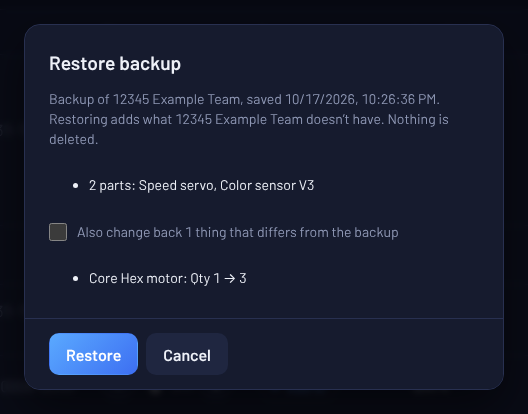
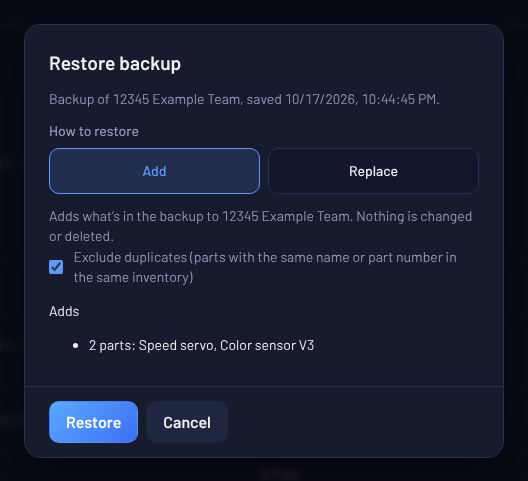
Restore a backup by adding to the team or replacing it
Restore backup now asks how: Add brings in what the team doesn't have, with
Exclude duplicates on to start (off adds every part again as copies). Replace
makes the team match the backup, moving what isn't in it to the trash, and
asks for the team number first. A team with nothing in it just gets the backup.

diff --git a/src/main.js b/src/main.js
@@ -1230,9 +1230,9 @@ function importParts(parts, newLocations, source) {
 }
 
 // ---------- team backup ----------
-// Export backup saves everything the team has in one .inv file (see backup.js). Restore backup adds what's in a backup
-// and not in the team, under the same ids, so printed QR labels and project uses still find their parts. What the team
-// has that differs from the backup is only changed back when asked. Nothing is deleted.
+// Export backup saves everything the team has in one .inv file (see backup.js). Restore backup adds what's in a backup to
+// the team, or replaces the team with it. Either way things come back under their ids, so printed QR labels and project
+// uses still find their parts, and what Replace removes goes to the trash.
 
 // Every doc of the backed-up collections, read fresh rather than taken from the screen, so a backup made while the
 // inventory is still loading isn't missing anything.
@@ -1257,21 +1257,26 @@ function chooseBackup() {
   input.click();
 }
 
-// How describeEdit names what restoring changes besides parts.
+// How describeEdit names what restoring changes besides parts (see RESTORE_PART_FIELDS).
 const NAME_FIELDS = [['name', 'Name']];
 const USE_FIELDS = [['quantity', 'Using'], ['packed', 'Packed']];
 const ORDER_FIELDS = [['name', 'Item'], ['partNumber', 'Part #'], ['quantity', 'Qty'], ['supplier', 'Supplier'], ['link', 'Link'], ['notes', 'Notes']];
 const useDetails = (use) => ({ quantity: use.quantity, packed: use.packed === undefined ? '' : use.packed ? 'Yes' : 'No' });
 
-// What restoring a backup does: `add` holds what's in it and not in the team, and `change` what the team has that differs
-// from it, each with a line saying how. Something whose inventory or part is in neither goes in Main Inventory, or for an
-// order, becomes an order for a new part, like bringing it back from the trash. Uses of a project or part in neither are
-// left out.
-function restorePlan(backup, team) {
+// What restoring a backup does: `add` holds what's in it and not in the team. Add mode keeps everything the team has;
+// with `duplicates`, parts the team already has are added again as copies, and without it, a part with the same name or
+// part number as one in the same inventory is left out. Replace makes the team match the backup: `change` holds what
+// differs from it, and `remove` what isn't in it. Something whose inventory or part won't be there goes in Main
+// Inventory, or for an order, becomes an order for a new part, like bringing it back from the trash. Uses of a project or
+// part that won't be there are left out.
+function restorePlan(backup, team, { replace, duplicates }) {
   const byId = (docs) => new Map(docs.map((d) => [d.id, d]));
   const [projects, parts, uses, orders] = [team.projects, team.parts, team.uses, team.orders].map(byId);
-  const projectIds = new Set([...projects.keys(), ...backup.projects.map((p) => p.id)]);
-  const partIds = new Set([...parts.keys(), ...backup.parts.map((p) => p.id)]);
+  const [backupProjects, backupParts, backupOrders] = [backup.projects, backup.parts, backup.orders].map((docs) => new Set(docs.map((d) => d.id)));
+  const projectIds = new Set([fb.MAIN_PROJECT, ...backupProjects, ...(replace ? [] : projects.keys())]);
+  const inventoryOf = (id) => (projectIds.has(id) ? id : fb.MAIN_PROJECT);
+  const names = new Map([...team.projects, ...backup.projects].map((p) => [p.id, p.name]));
+  const named = (part) => ({ ...part, projectId: names.get(part.projectId) });
   const printed = new Set(team.printed.map((p) => p.id));
   const add = {
     locations: backup.locations.filter((name) => !team.locations.some((l) => sameName(l.name, name))),
@@ -1281,88 +1286,137 @@ function restorePlan(backup, team) {
   const change = { projects: [], parts: [], uses: [], orders: [] };
   for (const { id, ...project } of backup.projects) {
     const now = projects.get(id);
-    if (!now) add.projects.push({ id, ...project, source: !project.source || projectIds.has(project.source) ? project.source : fb.MAIN_PROJECT });
-    else if (now.name !== project.name) change.projects.push({ id, name: project.name, text: `${TYPES[typeOf(now)].label}: ${describeEdit(now, project, NAME_FIELDS)}` });
+    if (!now) add.projects.push({ id, ...project, source: project.source && inventoryOf(project.source) });
+    else if (replace && now.name !== project.name) change.projects.push({ id, name: project.name, text: `${TYPES[typeOf(now)].label}: ${describeEdit(now, project, NAME_FIELDS)}` });
   }
-  for (const { id, ...part } of backup.parts) {
-    if (!parts.has(id)) {
-      add.parts.push([id, projectIds.has(part.projectId) ? part : { ...part, projectId: fb.MAIN_PROJECT }]);
-      continue;
-    }
-    const [before, after] = [partData(parts.get(id)), partData(part)];
-    const how = describeEdit(before, after);
-    if (how) change.parts.push({ id, fields: changedFields(before, after), text: `${before.name}: ${how}` });
+  const sameItem = (a, b) => a.projectId === b.projectId && (sameName(a.name, b.name) || (b.partNumber && a.partNumber === b.partNumber));
+  for (const { id, ...saved } of backup.parts) {
+    const part = { ...saved, projectId: inventoryOf(saved.projectId) };
+    const now = parts.get(id);
+    if (replace && now) {
+      const [before, after] = [partData(now), partData(part)];
+      const how = describeEdit(named(before), named(after), RESTORE_PART_FIELDS);
+      if (how) change.parts.push({ id, fields: changedFields(before, after, RESTORE_PART_FIELDS), text: `${before.name}: ${how}` });
+    } else if (now) {
+      if (duplicates) add.parts.push({ id: fb.newPartId(), ...part });
+    } else if (replace || duplicates || !team.parts.some((p) => sameItem(p, part))) add.parts.push({ id, ...part });
   }
+  const partIds = new Set([...(replace ? backupParts : parts.keys()), ...add.parts.map((p) => p.id)]);
   // A use without a quantity is never written, since setUse would delete it.
   for (const use of backup.uses.filter((u) => u.quantity > 0 && projectIds.has(u.projectId) && partIds.has(u.partId))) {
     const now = uses.get(`${use.projectId}_${use.partId}`);
-    if (!now) {
-      add.uses.push(use);
-      continue;
+    if (!now) add.uses.push(use);
+    else if (replace) {
+      const how = describeEdit(useDetails(now), useDetails(use), USE_FIELDS);
+      if (how) change.uses.push({ use, text: `${parts.get(use.partId)?.name ?? 'A part'} in ${projects.get(use.projectId)?.name ?? 'a project'}: ${how}` });
     }
-    const how = describeEdit(useDetails(now), useDetails(use), USE_FIELDS);
-    if (how) change.uses.push({ use, text: `${parts.get(use.partId)?.name ?? 'A part'} in ${projects.get(use.projectId)?.name ?? 'a project'}: ${how}` });
   }
-  for (const { id, ...order } of backup.orders) {
-    const data = partIds.has(order.partId) ? order : { ...order, partId: '' };
+  for (const { id, ...saved } of backup.orders) {
+    const order = partIds.has(saved.partId) ? saved : { ...saved, partId: '' };
     const now = orders.get(id);
-    if (!now) {
-      add.orders.push([id, data]);
-      continue;
+    if (!now) add.orders.push({ id, ...order });
+    else if (replace) {
+      const how = describeEdit(now, order, ORDER_FIELDS);
+      if (how) change.orders.push({ id, order, text: `Order for ${now.name}: ${how}` });
     }
-    const how = describeEdit(now, data, ORDER_FIELDS);
-    if (how) change.orders.push({ id, order: data, text: `Order for ${now.name}: ${how}` });
   }
-  return { add, change };
+  if (!replace) return { add, change, remove: { projects: [], parts: [], uses: [], orders: [], locations: [] } };
+  const backupUses = new Set(backup.uses.map((u) => `${u.projectId}_${u.partId}`));
+  const remove = {
+    projects: team.projects.filter((p) => !projectIds.has(p.id)),
+    parts: team.parts.filter((p) => !partIds.has(p.id)),
+    // Uses of the parts and projects that go to the trash go with them.
+    uses: team.uses.filter((u) => projectIds.has(u.projectId) && partIds.has(u.partId) && !backupUses.has(u.id)),
+    orders: team.orders.filter((o) => !backupOrders.has(o.id)),
+    locations: team.locations.filter((l) => !backup.locations.some((name) => sameName(l.name, name))),
+  };
+  return { add, change, remove };
 }
 
-// Shows what restoring a backup file adds to the team, and what the team has that differs from the backup, which is only
-// changed back when its box is checked.
-async function openRestoreDialog(file) {
-  const backup = readBackup(file.name, await file.text());
-  const { add, change } = restorePlan(backup, await readTeam());
-  const team = state.connection.teamName;
-  const adds = [
+// Lines naming what's in a group of docs, like "2 parts: Speed servo, Color sensor V3".
+function planLines({ projects = [], parts = [], uses = [], orders = [], locations = [], printed = [] }) {
+  return [
     ...Object.entries(TYPES).map(([type, { label, plural }]) => {
-      const names = add.projects.filter((p) => typeOf(p) === type).map((p) => p.name);
+      const names = projects.filter((p) => typeOf(p) === type).map((p) => p.name);
       return names.length && `${count(names.length, label.toLowerCase(), plural.toLowerCase())}: ${listNames(names)}`;
     }),
-    add.parts.length && `${countParts(add.parts.length)}: ${listNames(add.parts.map(([, p]) => p.name))}`,
-    add.uses.length && `${count(add.uses.length, 'item')} in projects and packing lists`,
-    add.orders.length && `${count(add.orders.length, 'order')}: ${listNames(add.orders.map(([, o]) => o.name))}`,
-    add.locations.length && `${count(add.locations.length, 'location')}: ${listNames(add.locations)}`,
-    add.printed.length && `${count(add.printed.length, 'QR label')} marked as printed`,
+    parts.length && `${countParts(parts.length)}: ${listNames(parts.map((p) => p.name))}`,
+    uses.length && `${count(uses.length, 'item')} in projects and packing lists`,
+    orders.length && `${count(orders.length, 'order')}: ${listNames(orders.map((o) => o.name))}`,
+    locations.length && `${count(locations.length, 'location')}: ${listNames(locations)}`,
+    printed.length && `${count(printed.length, 'QR label')} marked as printed`,
   ].filter(Boolean);
-  const changes = Object.values(change).flat().map((c) => c.text);
-  const lines = (texts) => texts.map((text) => `<li>${esc(text)}</li>`).join('');
+}
+
+// Asks how to restore a backup file, showing what each way does. Add keeps everything the team has. Replace makes the
+// team match the backup, so it asks for the team number (or name, for teammates who joined with a code) to be typed
+// first. A team with nothing in it yet just gets the backup.
+async function openRestoreDialog(file) {
+  const backup = readBackup(file.name, await file.text());
+  const team = await readTeam();
+  const teamName = state.connection.teamName;
+  const empty = !team.parts.length && !team.orders.length && team.projects.every((p) => p.id === fb.MAIN_PROJECT);
+  const confirmText = String(state.connection.teamNumber ?? teamName);
   const dialog = app.querySelector('#dialog');
   dialog.innerHTML = `
     <form method="dialog" class="card">
       <h2>Restore backup</h2>
-      <p class="muted small">Backup of ${esc(backup.team)}, saved ${esc(new Date(backup.saved).toLocaleString())}. Restoring adds what ${esc(team)} doesn’t have. Nothing is deleted.</p>
-      ${adds.length ? `<ul class="small">${lines(adds)}</ul>` : `<p>${esc(team)} already has everything in this backup.</p>`}
-      ${changes.length ? `
-        <label class="check"><input type="checkbox" name="changes" />Also change back ${count(changes.length, 'thing')} that ${changes.length === 1 ? 'differs' : 'differ'} from the backup</label>
-        <ul class="small">${lines(changes.slice(0, 5))}${changes.length > 5 ? `<li class="muted">and ${changes.length - 5} more</li>` : ''}</ul>` : ''}
+      <p class="muted small">Backup of ${esc(backup.team)}, saved ${esc(new Date(backup.saved).toLocaleString())}.</p>
+      ${empty ? '' : `
+        <fieldset class="types pair">
+          <legend>How to restore</legend>
+          <label><input type="radio" name="mode" value="add" checked />Add</label>
+          <label><input type="radio" name="mode" value="replace" />Replace</label>
+        </fieldset>`}
+      <div class="restore-plan"></div>
       <div class="row">
-        <button value="restore" autofocus>Restore</button>
+        <button value="restore">Restore</button>
         <button value="cancel" formnovalidate class="secondary">Cancel</button>
       </div>
     </form>`;
   const form = dialog.querySelector('form');
   const button = form.querySelector('[value="restore"]');
-  const withChanges = () => Boolean(form.changes?.checked);
-  const update = () => { button.disabled = !adds.length && !withChanges(); };
-  form.onchange = update;
-  update();
+  const section = (heading, lines) => (lines.length ? `<p class="small">${heading}</p><ul class="small">${lines.map((text) => `<li>${esc(text)}</li>`).join('')}</ul>` : '');
+  let plan, replace;
+  const update = () => {
+    const { add, change, remove } = plan;
+    const hasWork = [add, change, remove].some((group) => Object.values(group).some((list) => list.length));
+    button.disabled = !hasWork || (replace && !empty && form.confirm.value.trim().toLowerCase() !== confirmText.toLowerCase());
+  };
+  const render = () => {
+    replace = empty || form.mode.value === 'replace';
+    const duplicates = !replace && form.exclude?.checked === false;
+    plan = restorePlan(backup, team, { replace, duplicates });
+    const { add, change, remove } = plan;
+    const changes = Object.values(change).flat().map((c) => c.text);
+    const adds = planLines(add);
+    const removes = planLines({ ...remove, locations: remove.locations.map((l) => l.name) });
+    form.querySelector('.restore-plan').innerHTML = `
+      ${empty ? `<p class="muted small">Adds everything in the backup to ${esc(teamName)}.</p>` : replace
+        ? `<p class="muted small">Makes ${esc(teamName)} match the backup. Parts, projects and orders that aren’t in it go to the Trash for ${TRASH_DAYS} days.</p>`
+        : `<p class="muted small">Adds what’s in the backup to ${esc(teamName)}. Nothing is changed or deleted.</p>
+          <label class="check"><input type="checkbox" name="exclude" ${duplicates ? '' : 'checked'} />Exclude duplicates (parts with the same name or part number in the same inventory)</label>`}
+      ${section('Adds', adds)}
+      ${section('Changes back', [...changes.slice(0, 5), ...(changes.length > 5 ? [`and ${changes.length - 5} more`] : [])])}
+      ${section('Removes', removes)}
+      ${adds.length || changes.length || removes.length ? '' : `<p>${esc(teamName)} already has everything in this backup.</p>`}
+      ${replace && !empty ? `<label>Type ${esc(confirmText)} to confirm<input name="confirm" autocomplete="off" /></label>` : ''}`;
+    update();
+  };
+  form.onchange = (e) => { if (['mode', 'exclude'].includes(e.target.name)) render(); };
+  form.oninput = update;
+  render();
   form.onsubmit = (e) => {
     if (e.submitter.value !== 'restore') return;
     e.preventDefault();
     button.disabled = true;
     button.textContent = 'Restoring…';
-    restoreBackup({ add, change }, withChanges(), file.name).then(() => {
+    const removed = plan.remove.parts.length + plan.remove.projects.length + plan.remove.orders.length;
+    restoreBackup(plan, team, file.name).then(() => {
       dialog.close();
-      showMessage('Backup restored', `${esc(team)} now has everything in ${esc(file.name)}.`);
+      showMessage('Backup restored', replace
+        ? `${esc(teamName)} now matches ${esc(file.name)}.${removed ? ` What was removed is in the Trash for ${TRASH_DAYS} days.` : ''}`
+        : `Added what was in ${esc(file.name)} to ${esc(teamName)}.`);
     }, (error) => {
       dialog.close();
       showError(error);
@@ -1372,28 +1426,38 @@ async function openRestoreDialog(file) {
 }
 
 // Writes a restore in the order the rules check that things exist: inventories before the projects that name them and the
-// parts in them, parts before their uses and orders. With `withChanges`, what differs from the backup is changed back too.
-async function restoreBackup({ add, change }, withChanges, source) {
-  const changed = (list) => (withChanges ? list : []);
+// parts in them, parts before their uses and orders. What Replace removes goes last, parts, projects and orders through
+// the trash with their uses.
+async function restoreBackup({ add, change, remove }, team, source) {
   const create = (p) => fb.createProject(p.id, p.name, p.source, p.kind);
-  const edits = changed(change.parts);
-  const log = (action, n, details) => n && fb.logChange(me(), action, countParts(n), `Restored from ${source}${details}`.slice(0, 2000));
+  const log = (action, n, details) => n && fb.logChange(me(), action, countParts(n), details.slice(0, 2000));
+  const usesOf = (key, id) => team.uses.filter((u) => u[key] === id).map(useData);
+  const trash = (kind, { id, ...data }, uses) => fb.moveToTrash({ kind, docId: id, name: data.name, data, uses }, state.user);
   await Promise.all([...add.locations.map((name) => fb.addLocation(name)), ...add.projects.filter((p) => !p.source).map(create)]);
   await Promise.all([
     ...add.projects.filter((p) => p.source).map(create),
-    ...changed(change.projects).map(({ id, name }) => fb.renameProject(id, name)),
+    ...change.projects.map(({ id, name }) => fb.renameProject(id, name)),
   ]);
   await Promise.all([
-    fb.saveParts(add.parts, state.user),
-    fb.updateParts(edits.map(({ id, fields }) => [id, fields]), state.user),
-    log('added', add.parts.length, ''),
-    log('edited', edits.length, `: ${edits.map((c) => c.text).join('; ')}`),
+    fb.saveParts(add.parts.map(({ id, ...part }) => [id, part]), state.user),
+    fb.updateParts(change.parts.map(({ id, fields }) => [id, fields]), state.user),
+    log('added', add.parts.length, `Restored from ${source}`),
+    log('edited', change.parts.length, `Restored from ${source}: ${change.parts.map((c) => c.text).join('; ')}`),
   ]);
   await Promise.all([
-    ...[...add.uses, ...changed(change.uses).map((c) => c.use)].map((u) => fb.setUse(u.projectId, u.partId, u.quantity, u.packed)),
-    ...[...add.orders, ...changed(change.orders).map((c) => [c.id, c.order])].map(([id, order]) => fb.saveOrder(id, order)),
+    ...[...add.uses, ...change.uses.map((c) => c.use)].map((u) => fb.setUse(u.projectId, u.partId, u.quantity, u.packed)),
+    ...[...add.orders, ...change.orders.map((c) => ({ id: c.id, ...c.order }))].map(({ id, ...order }) => fb.saveOrder(id, order)),
     fb.markPrinted(add.printed),
   ]);
+  await Promise.all([
+    ...remove.parts.map((p) => trash('part', { ...partData(p), id: p.id }, usesOf('partId', p.id))),
+    ...remove.uses.map((u) => fb.setUse(u.projectId, u.partId, 0)),
+    ...remove.orders.map((o) => trash('order', o, [])),
+    log('deleted', remove.parts.length, `Replaced by ${source}`),
+  ]);
+  // Projects go after their parts, so a part's trash entry is written while its project is still there.
+  await Promise.all(remove.projects.map((p) => trash('project', p, usesOf('projectId', p.id))));
+  await Promise.all(remove.locations.map((l) => fb.deleteLocation(l.id)));
 }
 
 const lowBadge = (partId) => lowStock(partId) ? '<small class="badge low">Low stock</small>' : '';
@@ -2326,10 +2390,12 @@ const logged = (write, action, partName, details) =>
 
 // Every field an edit can change, with its name for the change log.
 const EDIT_FIELDS = [...FIELDS, ...DETAIL_FIELDS, ['barcode', 'Barcode'], ['link', 'Link'], ['minQuantity', 'Low stock at'], ['tags', 'Tags']];
+// A restored part's inventory counts too, so Replace can move a part back.
+const RESTORE_PART_FIELDS = [...EDIT_FIELDS, ['projectId', 'Inventory']];
 
-// The fields that differ from `before` to `after`, with their `after` values. A barcode, link or low-stock quantity that
-// was taken off is null.
-const changedFields = (before, after) => Object.fromEntries(EDIT_FIELDS
+// The fields that differ from `before` to `after` (a part's fields or the `fields` given), with their `after` values. A
+// barcode, link or low-stock quantity that was taken off is null.
+const changedFields = (before, after, fields = EDIT_FIELDS) => Object.fromEntries(fields
   .filter(([key]) => String(before[key] ?? '') !== String(after[key] ?? ''))
   .map(([key]) => [key, after[key] ?? null]));
 

diff --git a/src/style.css b/src/style.css
@@ -257,6 +257,7 @@ button.icon:hover, button.icon[aria-expanded="true"] { background: var(--raised)
 @media (prefers-reduced-motion: reduce) { .switch, .switch::after { transition: none; } }
 /* Type choice in the New dialog: three tiles, each with its icon. */
 .types { display: grid; grid-template-columns: repeat(3, minmax(0, 1fr)); gap: 8px; margin: 0; padding: 0; border: none; }
+.types.pair { grid-template-columns: repeat(2, minmax(0, 1fr)); }
 .types legend { padding: 0; margin-bottom: 6px; font-size: 0.875rem; font-weight: 500; color: var(--muted); }
 .types label {
   position: relative;

diff --git a/docs/HOW-TO.md b/docs/HOW-TO.md
@@ -194,11 +194,14 @@ The same menu has **Export CSV**, which saves every part in the inventory as a s
 
 **☰ → Export backup** saves everything your team has in one `.inv` file: every inventory, project and packing list, every part, the orders, the locations and which QR labels are printed. It doesn't hold the members, the change log or the trash. Export works on the website and the Windows app, not the Android app. Keep the file somewhere the team can find it, like a shared drive.
 
-**☰ → Restore backup** opens a `.inv` file. On a computer the file picker shows `.inv` files; a phone lists all files, and the app checks that the one you pick is a backup. Before anything changes, the app shows what restoring will add: parts, projects and anything else your team doesn't have anymore. Click **Restore** to add them.
+**☰ → Restore backup** opens a `.inv` file. On a computer the file picker shows `.inv` files; a phone lists all files, and the app checks that the one you pick is a backup. Then pick how to restore it. Before anything changes, the app lists what each way will do.
 
-<img src="how-to/restore-backup.png" alt="The restore preview, with what restoring adds and what differs from the backup" width="420">
+- **Add** brings in what's in the backup and your team doesn't have, like parts deleted since. Nothing you have is changed or deleted. **Exclude duplicates** (on to start) leaves out parts your team already has, and parts with the same name or part number in the same inventory. Turn it off to add every part in the backup again, as copies.
+- **Replace** makes your team match the backup: it adds what's missing, sets back what changed (quantities, names, which inventory a part is in) and removes what isn't in the backup. Removed parts, projects and orders go to [Trash](#10-change-log-undo-and-trash) for 30 days. So it can't happen by accident, you type your team number first (or your team's name, if you joined with a code or link).
 
-Restoring never deletes anything, and it leaves the things you've changed since the backup as they are. To also set those back to how they were in the backup, like a quantity or a project's name, tick **Also change back** first; the preview lists what will change. Everything comes back under the same IDs, so printed QR labels keep working, even in a new Firebase project. Restoring needs an internet connection.
+<img src="how-to/restore-backup.png" alt="Restore backup, with Add picked and what it will add" width="420">
+
+If your team has nothing in it yet, like a new team, the app skips the choice and just restores the backup. Everything comes back under the same IDs, so printed QR labels keep working, even in a new Firebase project. Restoring needs an internet connection.
 
 ---
 

diff --git a/docs/ADMIN.md b/docs/ADMIN.md
@@ -69,7 +69,7 @@ Your inventory is stored safely in your Firebase project, and deleted items stay
 
 Choose **☰ → Export backup** (on the website or the Windows app; the Android app can't save files). It saves one `.inv` file with every inventory, project, packing list, part, order and location, and which QR labels are printed. It doesn't hold the members, the change log or the trash. Do it before each season and after a big inventory count, and keep the files somewhere the team can find them, like a shared drive.
 
-To bring things back, choose **☰ → Restore backup** and pick the file. The app shows what it will add before anything changes. Restoring only adds what the team doesn't have, so nothing is deleted and changes made since the backup stay, unless you tick **Also change back**. See [Import, export and backups](HOW-TO.md#9-import-export-and-backups).
+To bring things back, choose **☰ → Restore backup**, pick the file and pick how: **Add** only brings in what the team doesn't have, and **Replace** makes the team match the backup, after you type your team number. What Replace removes goes to the Trash for 30 days. The app shows what each way will do before anything changes. See [Import, export and backups](HOW-TO.md#9-import-export-and-backups).
 
 **Moving to a new Firebase project:** export a backup, set up the new team (see the [team setup guide](../SETUP.md)), then restore the backup there. Everything keeps its ID, so the QR labels you've already printed still work. Teammates join the new team with its join code.
 

diff --git a/README.md b/README.md
@@ -12,7 +12,7 @@ The ultimate inventory tool for FTC teams. Track each part's name, part number, 
 - **Subcategories and tags:** write categories like `Hardware/Screws` and tag parts (`spare`, `competition`) to filter by them.
 - **Trash:** deleted parts, projects, packing lists and orders wait in **Trash** for 30 days, so they can be brought back.
 - **Spreadsheet import and CSV export:** paste your parts straight from Excel or Google Sheets, whatever your columns are called, or save an inventory as a CSV file. Import only adds parts and skips ones already there.
-- **Team backups:** save everything the team has in one `.inv` file, and restore it to bring back what's missing or move to a new Firebase project. Restoring shows what it will add first and never deletes anything.
+- **Team backups:** save everything the team has in one `.inv` file, and restore it to bring back what's missing, roll the team back to the backup, or move to a new Firebase project. Restoring shows what it will do first, and anything it removes goes to the Trash.
 - **Works offline:** no wifi at the venue? Keep editing. Changes are saved on the device and sync when it's back online. The website opens offline too, after it has been used online once.
 
 - **Try it:** [live demo with sample parts](https://huskerthecat.github.io/FTC_Ultimate_Inventory/?demo), no setup needed. Changes aren't saved.

diff --git a/docs/TROUBLESHOOTING.md b/docs/TROUBLESHOOTING.md
@@ -203,7 +203,15 @@ Restoring checks what your team already has on the server first. Try again once 
 
 ### Restoring says the team already has everything, but my numbers are different.
 
-Restoring only adds what's missing; it doesn't undo changes made since the backup. Tick **Also change back** in the preview to set those back to how they were in the backup.
+**Add** only brings in what's missing; it doesn't undo changes made since the backup. Pick **Replace** to set everything back to how it was in the backup. See [Import, export and backups](HOW-TO.md#9-import-export-and-backups).
+
+### Restore stays grey after picking Replace.
+
+Type your team number in the box, like `12345`, without the program. If you joined with a code or link, type your team's name as shown at the top of the app instead; the box says which.
+
+### Replace removed something I needed.
+
+Parts, projects and orders that Replace removed are in **☰ → Trash** for 30 days. Tap **Restore** there to bring them back.
 
 ### "Delete the parts in Pit spares first."
 
